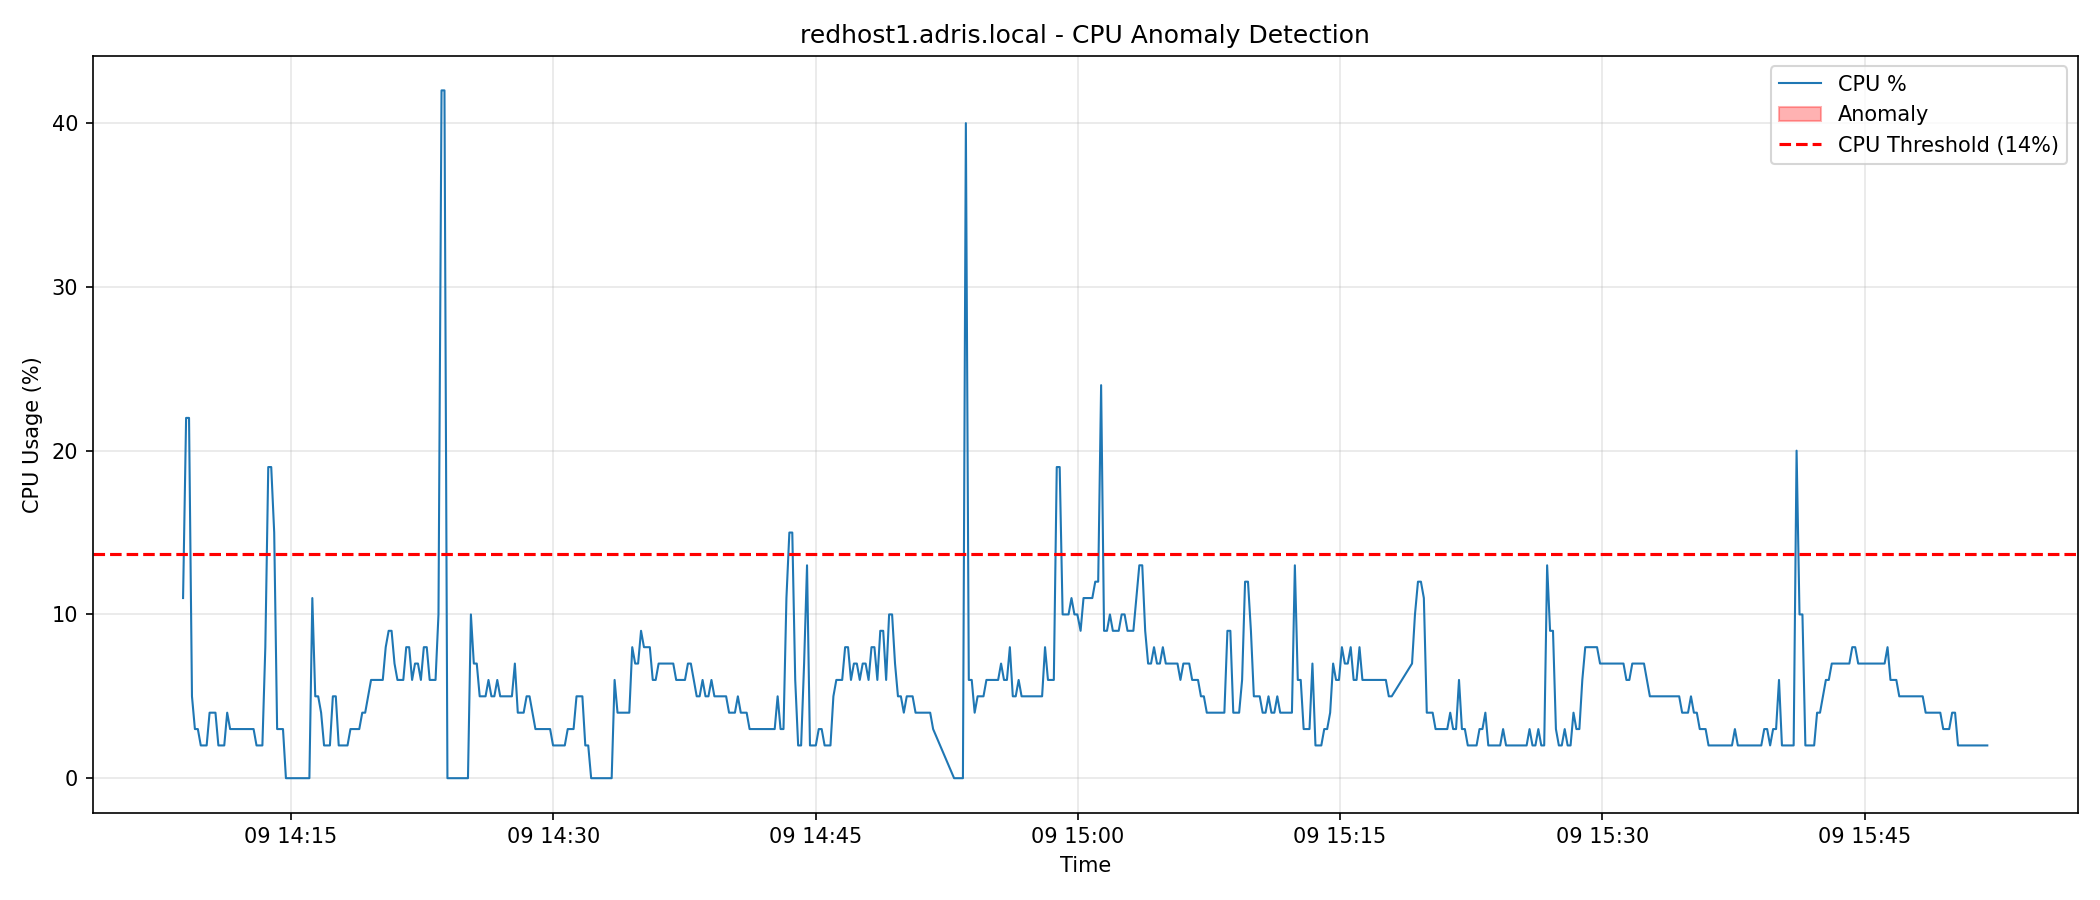
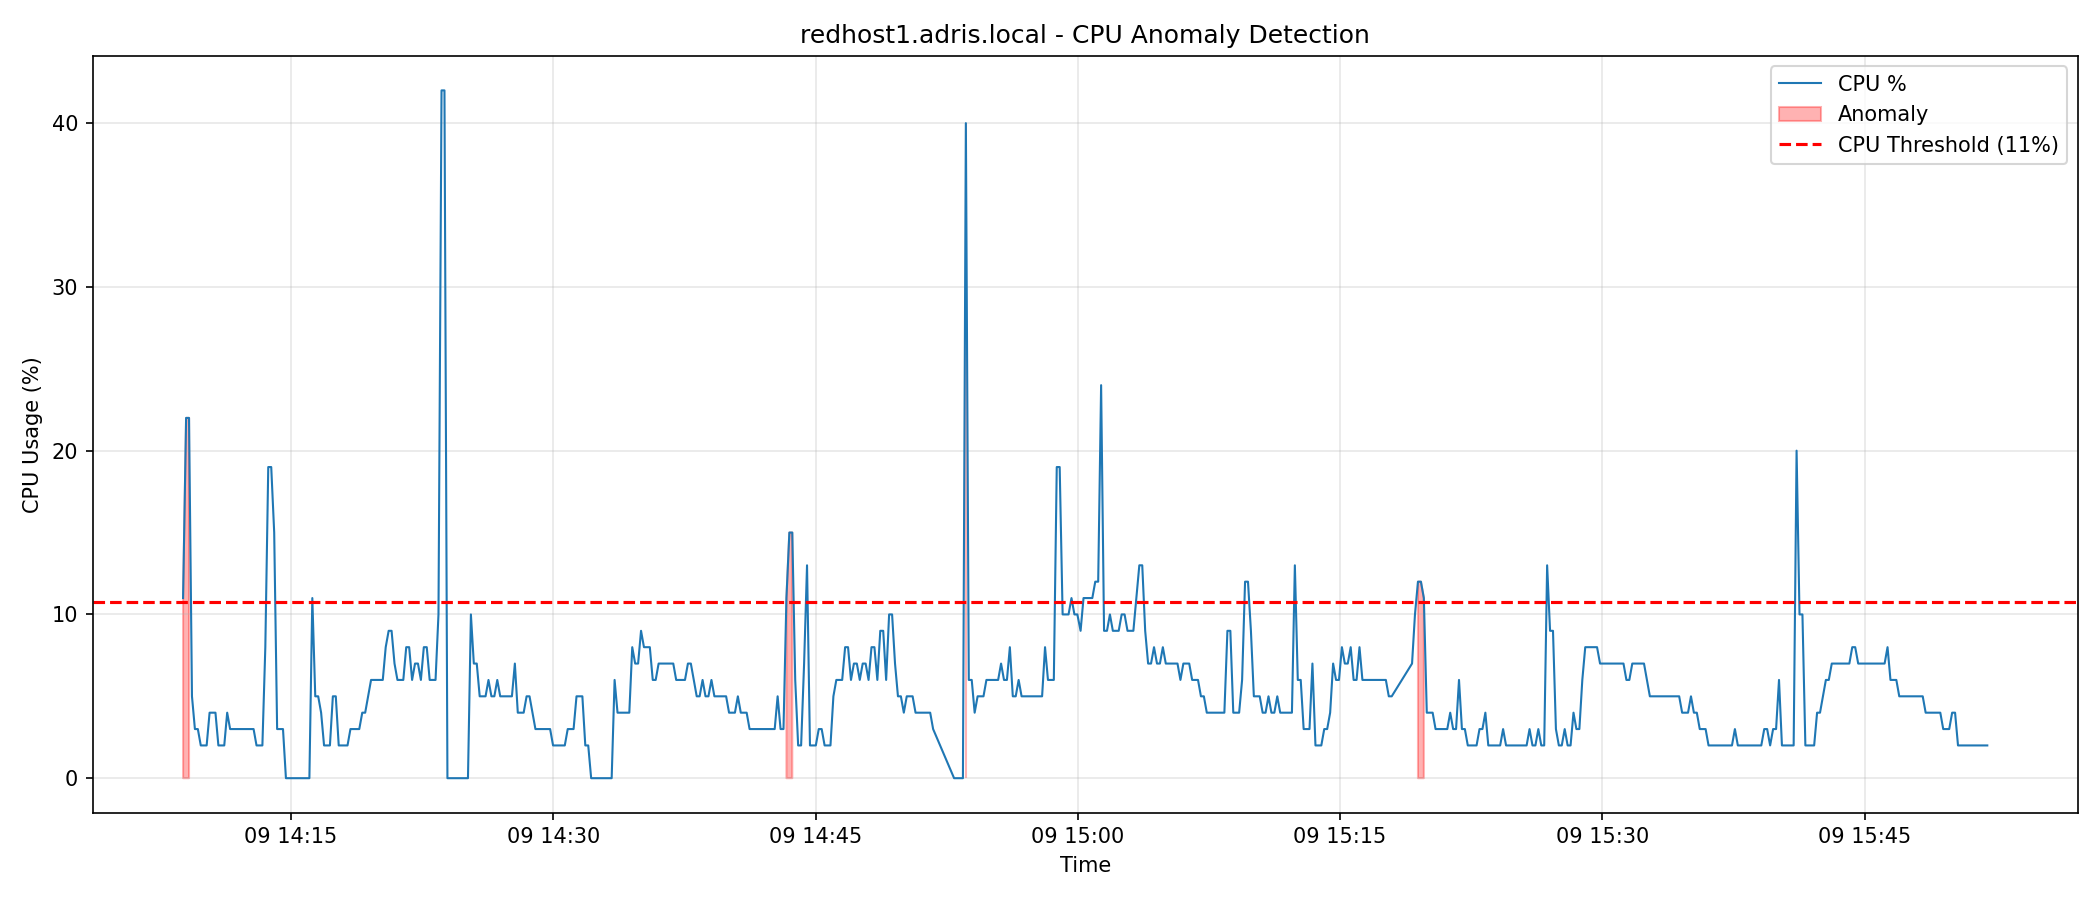
Update scripts and add new figures (confusion matrix, PR curve, probability distribution, time series predictions)

diff --git a/train_model.py b/train_model.py
@@ -9,12 +9,20 @@ import numpy as np
 import matplotlib.pyplot as plt
 from sklearn.ensemble import RandomForestClassifier
 from sklearn.model_selection import train_test_split, TimeSeriesSplit
-from sklearn.metrics import classification_report, confusion_matrix, roc_curve, auc, roc_auc_score
+from sklearn.metrics import classification_report, confusion_matrix, roc_curve, auc, roc_auc_score, precision_recall_curve, average_precision_score
 from sklearn.linear_model import LogisticRegression
 from sklearn.svm import SVC
 import joblib
 import warnings
 warnings.filterwarnings('ignore')
+
+# Попытка импорта seaborn для красивой тепловой карты
+try:
+    import seaborn as sns
+    HAS_SEABORN = True
+except ImportError:
+    HAS_SEABORN = False
+    print("Seaborn не установлен, тепловая карта будет отрисована в базовом стиле matplotlib.")
 
 class FailurePredictor:
     def __init__(self, data_file='clean_metrics.csv'):
@@ -62,7 +70,6 @@ class FailurePredictor:
         X = self.df[self.features].fillna(0)
         y = self.df['failure_soon']
 
-        # Проверка: есть ли оба класса
         if len(y.unique()) < 2:
             print("Ошибка: в данных только один класс! Невозможно обучить модель.")
             return None
@@ -74,33 +81,30 @@ class FailurePredictor:
         print(f"Размер обучающей выборки: {len(X_train)}")
         print(f"Размер тестовой выборки: {len(X_test)}")
 
-        # TimeSeries CV с проверкой на наличие обоих классов
-        tscv = TimeSeriesSplit(n_splits=3)  # уменьшаем до 3 фолдов
+        # TimeSeries CV (может выдавать пропуски – оставляем как есть)
+        tscv = TimeSeriesSplit(n_splits=3)
         cv_scores = []
         for train_idx, test_idx in tscv.split(X):
             X_tr, X_te = X.iloc[train_idx], X.iloc[test_idx]
             y_tr, y_te = y.iloc[train_idx], y.iloc[test_idx]
-            # Проверяем наличие обоих классов в тестовой выборке
             if len(y_te.unique()) < 2:
                 print(f"Пропуск фолда: в тестовой выборке только один класс")
                 continue
             model_cv = RandomForestClassifier(n_estimators=100, max_depth=10, min_samples_split=10, random_state=42)
             model_cv.fit(X_tr, y_tr)
-            y_proba = model_cv.predict_proba(X_te)
-            # Если classes_ = [0,1], то вероятность класса 1 во 2-м столбце
-            if y_proba.shape[1] == 2:
-                proba_class1 = y_proba[:, 1]
+            y_proba_cv = model_cv.predict_proba(X_te)
+            if y_proba_cv.shape[1] == 2:
+                proba_class1 = y_proba_cv[:, 1]
             else:
-                proba_class1 = y_proba[:, 0]  # если только один столбец (быть не должно)
+                proba_class1 = y_proba_cv[:, 0]
             score = roc_auc_score(y_te, proba_class1)
             cv_scores.append(score)
-        
         if cv_scores:
             print(f"TimeSeries CV ROC-AUC: {np.mean(cv_scores):.3f} +/- {np.std(cv_scores):.3f}")
         else:
             print("TimeSeries CV не удалась: нет фолдов с обоими классами")
 
-        # Обучение основной модели Random Forest
+        # Обучение основной модели
         self.model = RandomForestClassifier(
             n_estimators=100,
             max_depth=10,
@@ -109,11 +113,9 @@ class FailurePredictor:
         )
         self.model.fit(X_train, y_train)
 
-        # Оценка
+        # Оценка на тестовой выборке
         y_pred = self.model.predict(X_test)
         y_proba = self.model.predict_proba(X_test)
-
-        # Если classes_ = [0,1], то вероятность класса 1 во 2-м столбце
         if y_proba.shape[1] == 2:
             proba_class1 = y_proba[:, 1]
         else:
@@ -125,8 +127,8 @@ class FailurePredictor:
         print(confusion_matrix(y_test, y_pred))
 
         fpr, tpr, _ = roc_curve(y_test, proba_class1)
-        roc_auc = auc(fpr, tpr)
-        print(f"\nROC-AUC (Random Forest): {roc_auc:.3f}")
+        roc_auc_val = auc(fpr, tpr)
+        print(f"\nROC-AUC (Random Forest): {roc_auc_val:.3f}")
 
         # Важность признаков
         importance = pd.DataFrame({
@@ -136,7 +138,7 @@ class FailurePredictor:
         print("\nВажность признаков:")
         print(importance.to_string(index=False))
 
-        # Графики
+        # === Базовые графики (были и раньше) ===
         plt.figure(figsize=(10, 6))
         plt.barh(importance['feature'], importance['importance'])
         plt.xlabel('Importance')
@@ -146,7 +148,7 @@ class FailurePredictor:
         plt.close()
 
         plt.figure(figsize=(8, 6))
-        plt.plot(fpr, tpr, label=f'Random Forest (AUC = {roc_auc:.3f})')
+        plt.plot(fpr, tpr, label=f'Random Forest (AUC = {roc_auc_val:.3f})')
         plt.plot([0, 1], [0, 1], 'k--')
         plt.xlabel('False Positive Rate')
         plt.ylabel('True Positive Rate')
@@ -156,7 +158,77 @@ class FailurePredictor:
         plt.savefig('roc_curve.png', dpi=150)
         plt.close()
 
-        # Сравнение с базовыми методами
+        # === НОВЫЕ ГРАФИКИ ДЛЯ СТАТЬИ ===
+        # 1. Confusion Matrix (тепловая карта)
+        cm = confusion_matrix(y_test, y_pred)
+        if HAS_SEABORN:
+            plt.figure(figsize=(6,5))
+            sns.heatmap(cm, annot=True, fmt='d', cmap='Blues',
+                        xticklabels=['Normal', 'Failure'],
+                        yticklabels=['Normal', 'Failure'])
+            plt.xlabel('Predicted')
+            plt.ylabel('Actual')
+            plt.title('Confusion Matrix')
+            plt.tight_layout()
+            plt.savefig('confusion_matrix.png', dpi=150)
+            plt.close()
+        else:
+            plt.figure(figsize=(6,5))
+            plt.imshow(cm, interpolation='nearest', cmap=plt.cm.Blues)
+            plt.title('Confusion Matrix')
+            plt.colorbar()
+            tick_marks = np.arange(2)
+            plt.xticks(tick_marks, ['Normal', 'Failure'])
+            plt.yticks(tick_marks, ['Normal', 'Failure'])
+            thresh = cm.max() / 2.
+            for i, j in np.ndindex(cm.shape):
+                plt.text(j, i, format(cm[i, j], 'd'),
+                         horizontalalignment="center",
+                         color="white" if cm[i, j] > thresh else "black")
+            plt.tight_layout()
+            plt.savefig('confusion_matrix.png', dpi=150)
+            plt.close()
+
+        # 2. Распределение предсказанных вероятностей
+        plt.figure(figsize=(8,5))
+        plt.hist(proba_class1[y_test == 0], bins=30, alpha=0.5, label='Normal (class 0)')
+        plt.hist(proba_class1[y_test == 1], bins=30, alpha=0.5, label='Failure (class 1)')
+        plt.xlabel('Predicted probability of failure')
+        plt.ylabel('Frequency')
+        plt.legend()
+        plt.title('Distribution of Predicted Probabilities')
+        plt.tight_layout()
+        plt.savefig('prob_distribution.png', dpi=150)
+        plt.close()
+
+        # 3. Precision‑Recall кривая
+        precision, recall, _ = precision_recall_curve(y_test, proba_class1)
+        avg_precision = average_precision_score(y_test, proba_class1)
+        plt.figure(figsize=(8,6))
+        plt.plot(recall, precision, label=f'PR curve (AP = {avg_precision:.3f})')
+        plt.xlabel('Recall')
+        plt.ylabel('Precision')
+        plt.title('Precision-Recall Curve')
+        plt.legend()
+        plt.grid(True)
+        plt.tight_layout()
+        plt.savefig('pr_curve.png', dpi=150)
+        plt.close()
+
+        # 4. Временной ряд предсказаний (если индексы datetime)
+        if isinstance(X_test.index, pd.DatetimeIndex):
+            plt.figure(figsize=(12,5))
+            plt.plot(X_test.index, y_test, 'o', label='Actual failure_soon', markersize=2)
+            plt.plot(X_test.index, proba_class1, 'x', label='Predicted probability', markersize=2)
+            plt.xlabel('Time')
+            plt.ylabel('Probability / Class')
+            plt.legend()
+            plt.title('Predictions over time (test set)')
+            plt.tight_layout()
+            plt.savefig('predictions_timeseries.png', dpi=150)
+            plt.close()
+
+        # === Сравнение с базовыми методами и тесты на устойчивость ===
         print("\n=== Сравнение с базовыми методами ===")
         for name, clf in [('LogisticRegression', LogisticRegression(max_iter=1000, random_state=42)),
                           ('SVM (линейное ядро)', SVC(kernel='linear', probability=True, random_state=42))]:
@@ -169,7 +241,6 @@ class FailurePredictor:
             auc_clf = roc_auc_score(y_test, proba_clf)
             print(f"{name}: ROC-AUC = {auc_clf:.3f}")
 
-        # Устойчивость к шуму
         print("\n=== Устойчивость к шуму ===")
         noise_levels = [0, 0.05, 0.10]
         for noise in noise_levels:
@@ -189,7 +260,6 @@ class FailurePredictor:
             auc_noise = roc_auc_score(yn_test, proba_noise)
             print(f"Шум {noise*100:.0f}%: ROC-AUC = {auc_noise:.3f}")
 
-        # Устойчивость к пропущенным значениям
         print("\n=== Устойчивость к пропущенным значениям ===")
         missing_frac = [0, 0.05, 0.10]
         for miss in missing_frac:
@@ -212,7 +282,6 @@ class FailurePredictor:
 
     def save_model(self, filename='failure_model.joblib'):
         try:
-            import joblib
             joblib.dump(self.model, filename)
             print(f"\nМодель сохранена в {filename}")
         except ImportError:
@@ -238,7 +307,7 @@ if __name__ == "__main__":
         '2026-05-09 14:41:48',
         '2026-05-09 14:51:52',
         '2026-05-09 15:17:57',
-        # Нагрузка на память (3 события) – тоже включим
+        # Нагрузка на память (3 события)
         '2026-05-09 15:00:20',
         '2026-05-09 15:08:11',
         '2026-05-09 15:25:21',
@@ -254,5 +323,10 @@ if __name__ == "__main__":
     print("Созданы файлы:")
     print("  - feature_importance.png")
     print("  - roc_curve.png")
+    print("  - confusion_matrix.png")
+    print("  - prob_distribution.png")
+    print("  - pr_curve.png")
+    if predictor.df.index.inferred_type == 'datetime64':
+        print("  - predictions_timeseries.png")
     print("  - failure_model.joblib")
     print("="*60)

diff --git a/monitor_and_alert.py b/monitor_and_alert.py
@@ -1,0 +1,104 @@
+#!/usr/bin/env python3
+import joblib
+import pandas as pd
+import numpy as np
+import requests
+import time
+from datetime import datetime, timedelta
+
+# Параметры
+MODEL_FILE = "failure_model.joblib"
+METRICS_FILE = "metrics.csv"
+ALERT_THRESHOLD = 0.7
+HOST_NAME = "redhost1.adris.local"  # или бери из последней строки
+
+def get_latest_features(csv_file, host_name, lookback_minutes=60):
+    """Берёт последние метрики и вычисляет признаки"""
+    df = pd.read_csv(csv_file, parse_dates=['timestamp'])
+    df = df[df['host_name'] == host_name]
+    df = df.set_index('timestamp')
+    
+    # Берём последние lookback_minutes минут
+    cutoff = datetime.now() - timedelta(minutes=lookback_minutes)
+    df = df[df.index >= cutoff]
+    
+    if len(df) < 5:
+        return None
+    
+    # Вычисляем признаки (как в train_model.py)
+    df['cpu_total'] = df['cpu_user'] + df['cpu_system']
+    df['mem_percent'] = df['memory_used'] / df['memory_total'] * 100
+    df['swap_percent'] = df['swap_used'] / df['swap_total'] * 100 if df['swap_total'].iloc[-1] > 0 else 0
+    df['cpu_sma_5'] = df['cpu_total'].rolling(5, min_periods=1).mean()
+    df['cpu_delta'] = df['cpu_total'].diff().fillna(0)
+    df['mem_delta'] = df['mem_percent'].diff().fillna(0)
+    
+    # Берём средние за период (или последние значения)
+    features = {
+        'cpu_total': df['cpu_total'].mean(),
+        'cpu_load': df['cpu_load'].mean(),
+        'mem_percent': df['mem_percent'].mean(),
+        'swap_percent': df['swap_percent'].mean(),
+        'cpu_sma_5': df['cpu_sma_5'].mean(),
+        'cpu_delta': df['cpu_delta'].mean(),
+        'mem_delta': df['mem_delta'].mean(),
+    }
+    return features
+
+def send_alert(probability, host_name):
+    """Отправка предупреждения (разные способы)"""
+    message = f"[ALERT] {host_name}: вероятность отказа {probability:.1%} за 15 минут"
+    
+    # Вариант 1: в консоль
+    print(f"!!! {message} !!!")
+    
+    # Вариант 2: в Telegram (через бота)
+    # requests.post(f"https://api.telegram.org/bot<TOKEN>/sendMessage", 
+    #               json={"chat_id": "<CHAT_ID>", "text": message})
+    
+    # Вариант 3: в Slack/Teams (webhook)
+    # requests.post("<WEBHOOK_URL>", json={"text": message})
+    
+    # Вариант 4: в системный лог
+    # import syslog; syslog.syslog(syslog.LOG_WARNING, message)
+    
+    # Вариант 5: запуск скрипта миграции (вызов API Engine)
+    # migrate_vm_to_safe_host(host_name)
+
+def main():
+    model = joblib.load(MODEL_FILE)
+    print("Система мониторинга запущена. Ctrl+C для остановки.")
+    
+    while True:
+        try:
+            features = get_latest_features(METRICS_FILE, HOST_NAME)
+            if features is None:
+                print(f"[{datetime.now()}] Недостаточно данных")
+                time.sleep(60)
+                continue
+            
+            # Признаки в нужном порядке (как в train_model.py)
+            feature_list = [
+                features['cpu_total'],
+                features['mem_percent'],
+                features['cpu_load'],
+                features['swap_percent'],
+                features['cpu_sma_5'],
+                features['cpu_delta'],
+                features['mem_delta'],
+            ]
+            
+            proba = model.predict_proba([feature_list])[0][1]
+            timestamp = datetime.now().strftime('%Y-%m-%d %H:%M:%S')
+            print(f"[{timestamp}] Вероятность отказа: {proba:.3f}")
+            
+            if proba > ALERT_THRESHOLD:
+                send_alert(proba, HOST_NAME)
+                
+        except Exception as e:
+            print(f"Ошибка: {e}")
+        
+        time.sleep(30)  # Проверка каждые 30 секунд
+
+if __name__ == "__main__":
+    main()

diff --git a/analyze_metrics.py b/analyze_metrics.py
@@ -107,7 +107,7 @@ class MetricsAnalyzer:
         
         return host_df
     
-    def detect_anomalies(self, host_name, calm_period_hours=2):
+    def detect_anomalies(self, host_name, calm_period_hours=0.08):
         """Обнаружение аномалий на основе статистики спокойного периода"""
         host_df = self.df[self.df['host_name'] == host_name].copy()
         host_df = self.calculate_derived_features(host_df)
@@ -121,10 +121,10 @@ class MetricsAnalyzer:
             calm_df = host_df
             print(f"  Используем все данные для определения порогов (мало данных)")
         
-        # Вычисляем пороги (среднее + 2*std)
-        cpu_threshold = calm_df['cpu_total'].mean() + 2 * calm_df['cpu_total'].std()
-        mem_threshold = calm_df['mem_percent'].mean() + 2 * calm_df['mem_percent'].std()
-        load_threshold = calm_df['cpu_load'].mean() + 2 * calm_df['cpu_load'].std()
+        # Вычисляем пороги (среднее + 1.3*std)
+        cpu_threshold = calm_df['cpu_total'].mean() + 1.3 * calm_df['cpu_total'].std()
+        mem_threshold = calm_df['mem_percent'].mean() + 1.3 * calm_df['mem_percent'].std()
+        load_threshold = calm_df['cpu_load'].mean() + 1.3 * calm_df['cpu_load'].std()
         
         print(f"\n=== Пороги аномалий для {host_name} ===")
         print(f"  CPU порог: {cpu_threshold:.1f}%")
